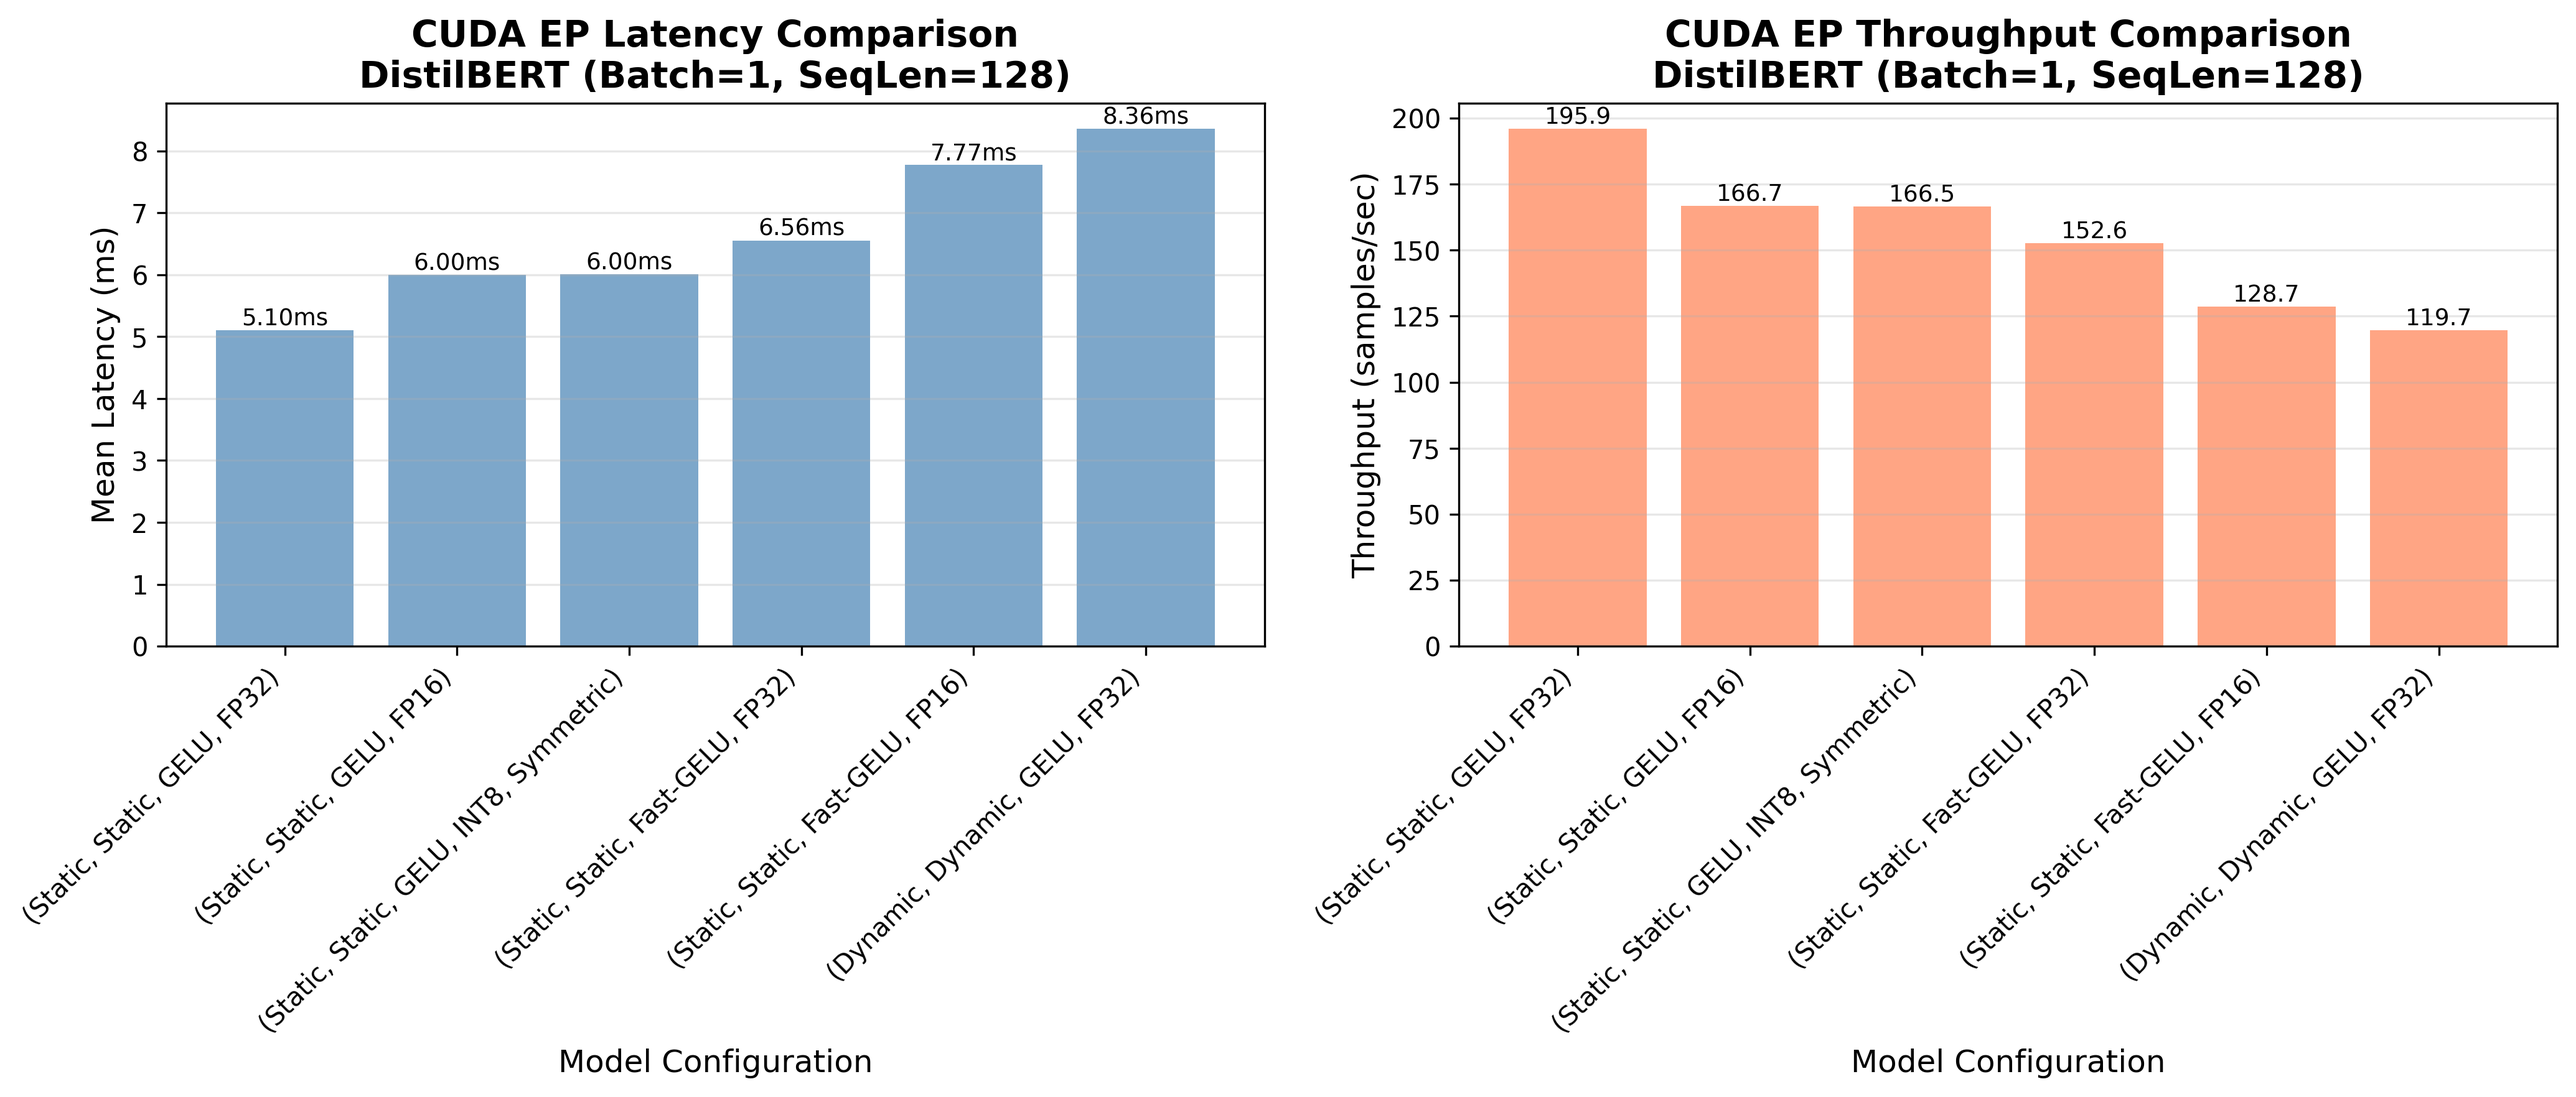
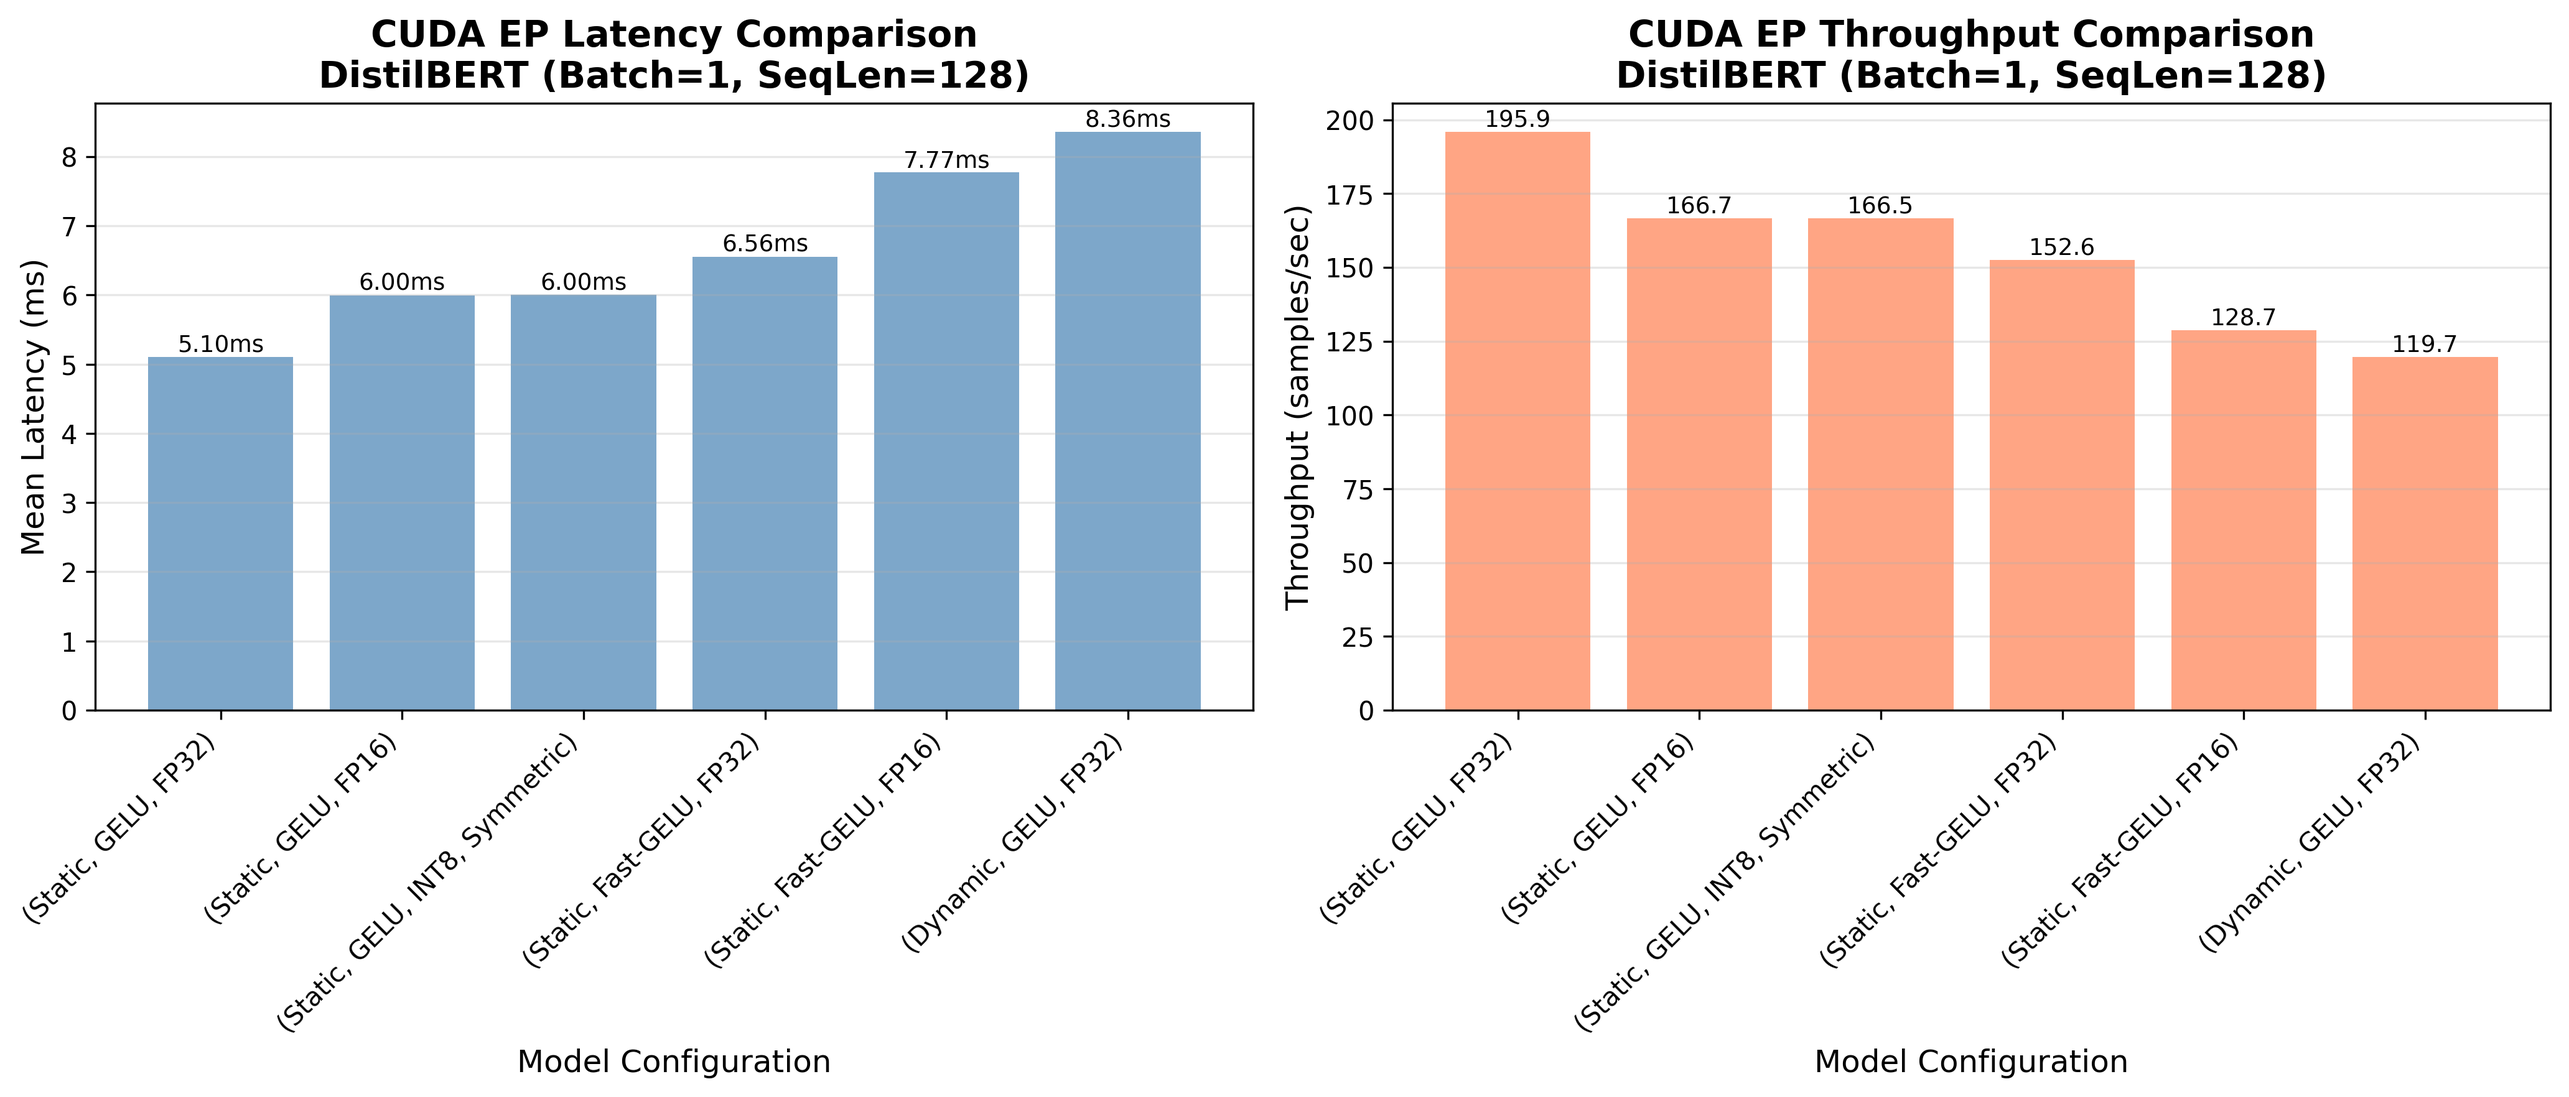
Fix duplicate Static/Dynamic text in plot labels
- Updated all three plotting scripts to filter out 'static' and 'dynamic' from label parts
- Regenerated all comparison plots with cleaner labels

diff --git a/scripts/plot_cuda_vs_trt_ep_comparison.py b/scripts/plot_cuda_vs_trt_ep_comparison.py
@@ -29,7 +29,7 @@ def clean_label(model_name):
     
     if is_static:
         shape_type = 'Static'
-        name = name.replace('b1_s128_static_', '').replace('b1_s128_', '')
+        name = name.replace('b1_s128_static_', '').replace('b1_s128_', '').replace('static_', '')
     elif is_dynamic:
         shape_type = 'Dynamic'
         name = name.replace('dynamic_', '')
@@ -38,6 +38,8 @@ def clean_label(model_name):
     
     # Replace underscores with spaces and capitalize
     parts = name.split('_')
+    # Filter out 'static', 'dynamic' to avoid duplication in label
+    parts = [p for p in parts if p.lower() not in ['static', 'dynamic']]
     parts = [p.upper() if p in ['fp32', 'fp16', 'int8'] else p.title() for p in parts]
     # Handle special cases
     label = ' '.join(parts)

diff --git a/scripts/plot_cuda_ep_comparison.py b/scripts/plot_cuda_ep_comparison.py
@@ -30,11 +30,13 @@ def main():
         is_static = name.startswith('b1_s128_')
         shape_type = 'Static' if is_static else 'Dynamic'
         
-        # Remove b1_s128_ prefix if present
-        name = name.replace('b1_s128_', '')
+        # Remove b1_s128_ and static_ prefix if present
+        name = name.replace('b1_s128_', '').replace('static_', '')
         
         # Replace underscores with spaces and capitalize
         parts = name.split('_')
+        # Filter out 'static', 'dynamic' to avoid duplication in label
+        parts = [p for p in parts if p.lower() not in ['static', 'dynamic']]
         parts = [p.upper() if p in ['fp32', 'fp16', 'int8'] else p.title() for p in parts]
         # Handle special cases
         label = ', '.join(parts)

diff --git a/scripts/plot_trt_ep_comparison.py b/scripts/plot_trt_ep_comparison.py
@@ -30,11 +30,13 @@ def main():
         is_static = name.startswith('b1_s128_')
         shape_type = 'Static' if is_static else 'Dynamic'
         
-        # Remove b1_s128_ prefix if present
-        name = name.replace('b1_s128_', '')
+        # Remove b1_s128_ and static_ prefix if present
+        name = name.replace('b1_s128_', '').replace('static_', '')
         
         # Replace underscores with spaces and capitalize
         parts = name.split('_')
+        # Filter out 'static', 'dynamic' to avoid duplication in label
+        parts = [p for p in parts if p.lower() not in ['static', 'dynamic']]
         parts = [p.upper() if p in ['fp32', 'fp16', 'int8'] else p.title() for p in parts]
         # Handle special cases
         label = ', '.join(parts)
